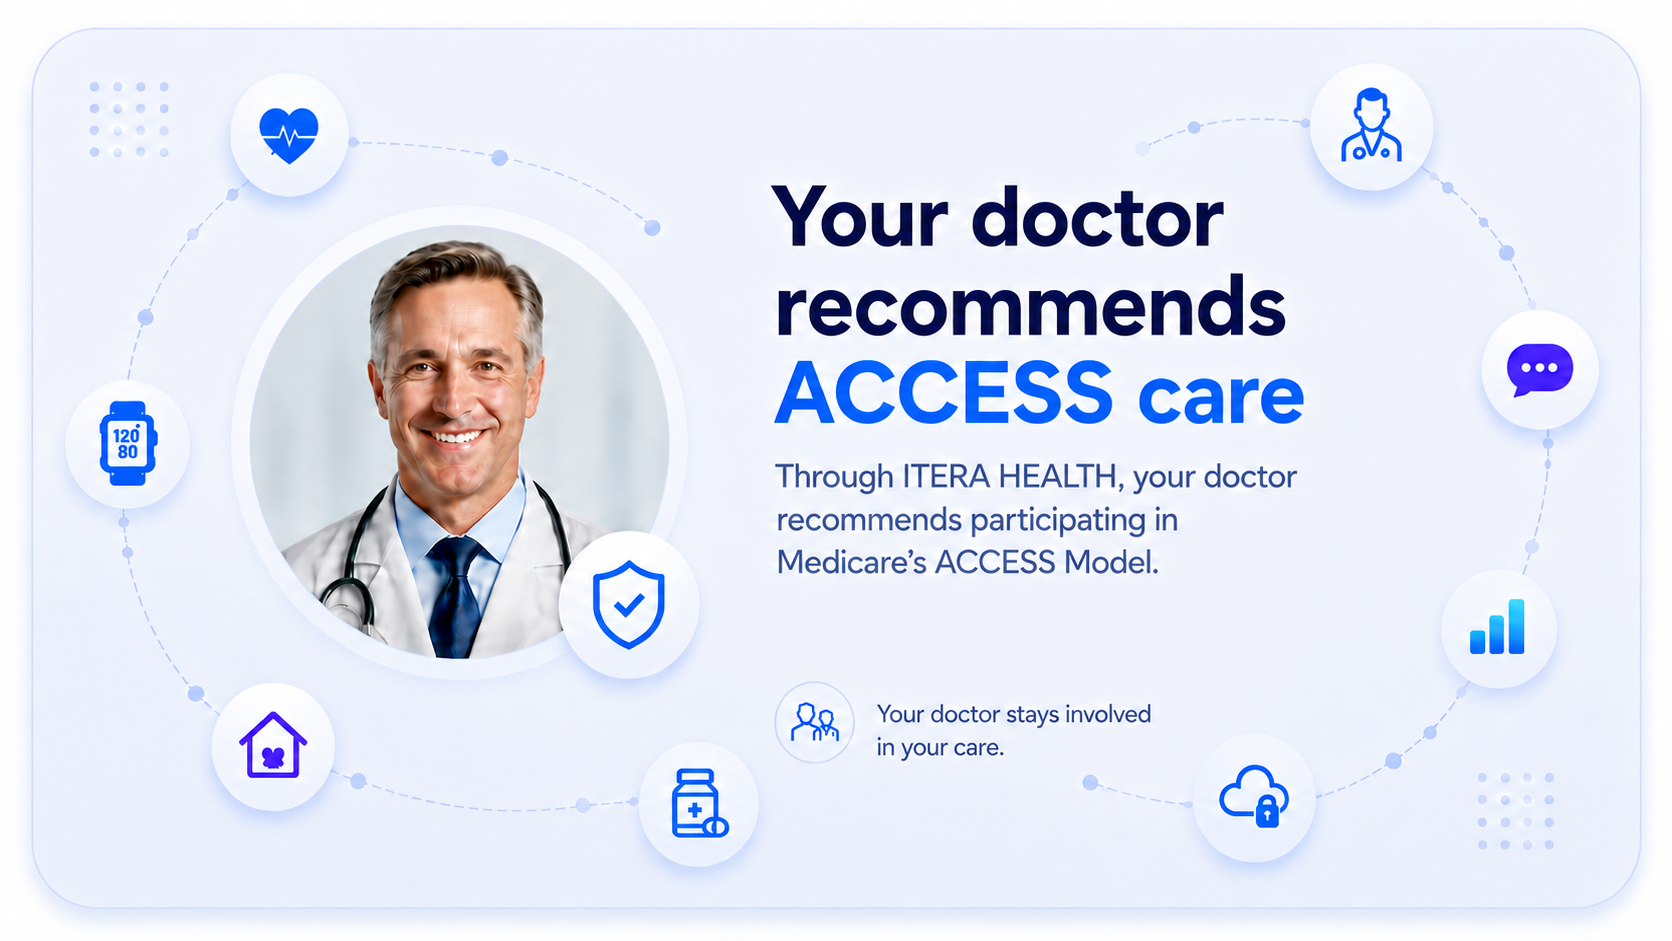
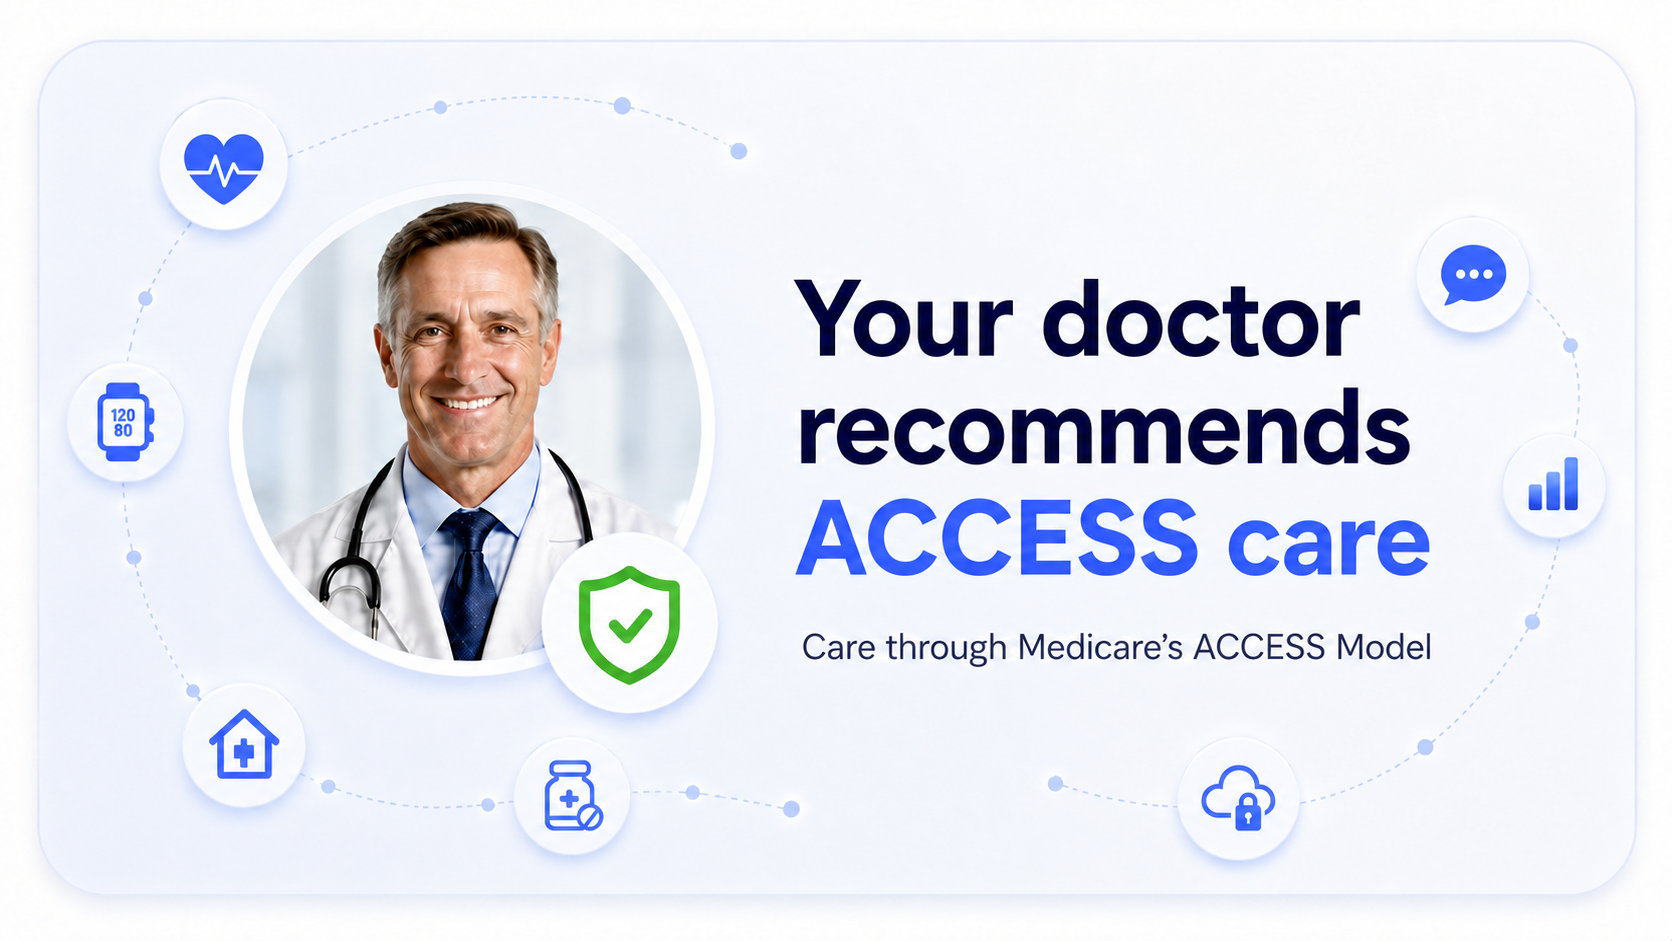
feat: refine enrollment cards and floating assistant

diff --git a/src/styles.css b/src/styles.css
@@ -237,13 +237,13 @@ p { margin:0; }
 .shell:has(.error-card) .floating-help,
 .shell:has(.faq) .floating-help,
 .shell:has(.text-button) .floating-help { display:none; }
-.emmi-assistant { position:fixed;z-index:10;right:max(10px,calc((100vw - 440px)/2 + 10px));bottom:calc(76px + env(safe-area-inset-bottom));display:grid;place-items:center;width:66px;height:66px;padding:4px;border:1px solid var(--primary-100);border-radius:50%;color:var(--text-primary);background:var(--surface-primary);box-shadow:0 12px 28px rgba(0,78,137,.16);cursor:grab;touch-action:none;user-select:none; }
-.emmi-assistant:hover { border-color:var(--primary-400);transform:translateY(-1px); }
-.emmi-assistant.dragging { cursor:grabbing;transform:none;box-shadow:0 15px 32px rgba(0,78,137,.2); }
+.emmi-assistant { position:fixed;z-index:10;right:max(10px,calc((100vw - 440px)/2 + 10px));bottom:calc(76px + env(safe-area-inset-bottom));display:grid;place-items:center;width:66px;height:66px;padding:0;border:0;border-radius:0;color:var(--text-primary);background:transparent;box-shadow:none;cursor:grab;touch-action:none;user-select:none; }
+.emmi-assistant:hover { transform:translateY(-1px); }
+.emmi-assistant.dragging { cursor:grabbing;transform:none;box-shadow:none; }
 .emmi-assistant:focus-visible { outline:3px solid var(--primary-600);outline-offset:3px; }
 .emmi-assistant:disabled { cursor:default;opacity:1; }
-.emmi-avatar { display:grid;place-items:center;width:56px;height:56px;overflow:hidden;border-radius:50%;background:var(--primary-50); }
-.emmi-avatar img { display:block;width:60px;height:60px;object-fit:contain;object-position:center;transform:translateY(-2px); }
+.emmi-avatar { display:grid;place-items:center;width:64px;height:64px;overflow:visible;border-radius:0;background:transparent; }
+.emmi-avatar img { display:block;width:64px;height:64px;object-fit:contain;object-position:center;filter:drop-shadow(0 8px 10px rgba(0,78,137,.18)); }
 .emmi-assistant img { pointer-events:none;user-select:none; }
 .emmi-disclaimer { display:flex;gap:9px;align-items:flex-start;margin-top:14px;padding:11px;border:1px solid var(--primary-100);border-radius:10px;color:var(--text-secondary);background:var(--surface-secondary);font-size:.78rem;line-height:1.42; }
 .emmi-disclaimer .icon { width:24px;height:24px;background:var(--primary-50); }
@@ -349,17 +349,16 @@ p { margin:0; }
   background:transparent;
   box-shadow:none;
 }
-.stage-brand-row { position:absolute;z-index:6;inset:0 0 auto;display:flex;justify-content:space-between;align-items:center;min-height:44px;padding:4px 18px;background:transparent;pointer-events:none; }
-.stage-brand { justify-self:auto;color:var(--text-placeholder);font-size:.78rem;pointer-events:auto; }
-.stage-language { justify-self:auto;width:auto;padding:0;color:var(--text-primary);pointer-events:auto; }
+.stage-brand-row { position:absolute;z-index:6;inset:0 0 auto;display:flex;justify-content:flex-end;align-items:flex-start;min-height:0;padding:4px 7px 0;background:transparent;pointer-events:none; }
+.stage-language { justify-self:auto;width:auto;min-width:0;min-height:32px;height:32px;padding:0 11px;color:var(--surface-primary);border:1px solid var(--warning);border-radius:999px;background:var(--warning);box-shadow:0 2px 8px rgba(255,70,1,.18);pointer-events:auto; }
 .trust-hero-media { position:absolute;inset:0;overflow:hidden;background:var(--surface-primary); }
 .trust-hero-image { position:absolute;inset:0;display:block;width:100%;height:100%;object-fit:cover;object-position:center; }
 .trust-hero-overlay { position:absolute;z-index:2;margin:0;color:var(--text-primary);font-size:clamp(.58rem,2.55vw,.69rem);font-weight:600;line-height:1.25;text-align:left;max-height:2.5em;overflow:hidden; }
 .trust-hero-overlay strong { color:var(--primary-600);font-weight:700; }
 .trust-hero-overlay.long { font-size:clamp(.45rem,1.85vw,.56rem);line-height:1.15;letter-spacing:-.012em; }
-.trust-hero-card[data-hero-variant="DOCTOR_RECOMMENDS_ACCESS"] .trust-hero-overlay { top:63.5%;left:46.2%;width:43%; }
+.trust-hero-card[data-hero-variant="DOCTOR_RECOMMENDS_ACCESS"] .trust-hero-overlay { top:74.5%;left:47.8%;width:42%; }
 .trust-hero-card[data-hero-variant="PHYSICIAN_SUPERVISING"] .trust-hero-overlay { top:53%;left:47.5%;width:42%; }
-.trust-hero-card[data-hero-variant="DOCTOR_RECOMMENDS_ACCESS"] .trust-hero-overlay.long { top:63%;width:47%; }
+.trust-hero-card[data-hero-variant="DOCTOR_RECOMMENDS_ACCESS"] .trust-hero-overlay.long { top:73.5%;width:47%; }
 .trust-hero-card[data-hero-variant="PHYSICIAN_SUPERVISING"] .trust-hero-overlay.long { top:52.5%;width:47%; }
 .generic-trust-hero { display:grid;place-content:center;justify-items:center;height:100%;padding:22px;text-align:center;background:var(--surface-secondary); }
 .generic-trust-hero>.icon { width:64px;height:64px;margin-bottom:12px;border-radius:20px; }
@@ -568,6 +567,6 @@ p { margin:0; }
   .scenario-summary strong { white-space:normal; }
   .launch-button { width:100%; }
 }
-@media (max-width:374px) { body { font-size:17px; }.screen { padding-left:18px;padding-right:18px; }.invitation-hero { margin-left:-18px;margin-right:-18px; }h1 { font-size:1.72rem; }.button { min-height:52px; }.art { height:118px; }.art-orbit { width:104px;height:104px; }.art-icon { width:65px;height:65px; }.screen:has(.invitation-stage){padding-left:18px;padding-right:18px}.stage-brand-row{padding-left:16px;padding-right:13px}.invitation-benefits{padding-left:13px;padding-right:13px} }
+@media (max-width:374px) { body { font-size:17px; }.screen { padding-left:18px;padding-right:18px; }.invitation-hero { margin-left:-18px;margin-right:-18px; }h1 { font-size:1.72rem; }.button { min-height:52px; }.art { height:118px; }.art-orbit { width:104px;height:104px; }.art-icon { width:65px;height:65px; }.screen:has(.invitation-stage){padding-left:18px;padding-right:18px}.stage-brand-row{padding-right:7px}.invitation-benefits{padding-left:13px;padding-right:13px} }
 @media (prefers-reduced-motion:reduce) { *,*::before,*::after { scroll-behavior:auto!important;animation-duration:.01ms!important;animation-iteration-count:1!important;transition-duration:.01ms!important; } }
 @media (forced-colors:active) { .button.primary,.check-row input:checked+.check-box { border:2px solid ButtonText; }.progress span { background:Highlight; } }

diff --git a/e2e/enrollment.spec.js b/e2e/enrollment.spec.js
@@ -42,6 +42,27 @@ test("direct outreach launches without an individual physician claim", async ({ 
   await expect(page.getByText("ITERA HEALTH invites you to learn about additional support available through Medicare.")).toBeVisible();
 });
 
+test("trust hero cards omit the ITERA logo and keep language near the top edge", async ({ page }) => {
+  await page.goto("/");
+  await page.getByRole("button", { name: /Launch Patient Experience/ }).click();
+  const hero = page.locator(".trust-hero-card");
+  await expect(hero).toBeVisible();
+  await expect(hero.locator(".stage-language")).toBeVisible();
+  await expect(hero.locator(".stage-brand")).toHaveCount(0);
+  await expect(hero.getByRole("link", { name: /ITERA HEALTH home/ })).toHaveCount(0);
+  const offset = await page.evaluate(() => {
+    const card = document.querySelector(".trust-hero-card").getBoundingClientRect();
+    const language = document.querySelector(".stage-language").getBoundingClientRect();
+    const style = getComputedStyle(document.querySelector(".stage-language"));
+    return { top: language.top - card.top, height: language.height, background: style.backgroundColor, color: style.color, iconCount: document.querySelectorAll(".stage-language .icon").length };
+  });
+  expect(offset.top).toBeLessThanOrEqual(10);
+  expect(offset.height).toBeLessThanOrEqual(34);
+  expect(offset.background).toBe("rgb(255, 70, 1)");
+  expect(offset.color).toBe("rgb(255, 255, 255)");
+  expect(offset.iconCount).toBe(0);
+});
+
 test("ACCESS physician referral uses doctor recommendation with dynamic physician", async ({ page }) => {
   await page.goto("/");
   await page.getByRole("combobox", { name: /Enrollment source/ }).selectOption({ label: "Physician Referral" });
@@ -49,6 +70,15 @@ test("ACCESS physician referral uses doctor recommendation with dynamic physicia
   await expect(page.locator(".trust-hero-card")).toHaveAttribute("data-hero-variant", "DOCTOR_RECOMMENDS_ACCESS");
   await expect(page.getByAltText("Your doctor recommends ACCESS care with ITERA HEALTH")).toBeVisible();
   await expect(page.locator(".trust-hero-overlay")).toHaveText("Recommended by Dr. Fresner");
+  const doctorLayout = await page.locator(".trust-hero-card").evaluate(card => {
+    const hero = card.getBoundingClientRect();
+    const language = card.querySelector(".stage-language").getBoundingClientRect();
+    const overlay = card.querySelector(".trust-hero-overlay").getBoundingClientRect();
+    return { languageRight: hero.right - language.right, overlayLeftRatio: (overlay.left - hero.left) / hero.width };
+  });
+  expect(doctorLayout.languageRight).toBeLessThanOrEqual(10);
+  expect(doctorLayout.overlayLeftRatio).toBeGreaterThanOrEqual(0.475);
+  expect(doctorLayout.overlayLeftRatio).toBeLessThanOrEqual(0.481);
 });
 
 test("traditional physician pathway uses supervising care card", async ({ page }) => {
@@ -59,6 +89,23 @@ test("traditional physician pathway uses supervising care card", async ({ page }
   await expect(page.locator(".trust-hero-card")).toHaveAttribute("data-hero-variant", "PHYSICIAN_SUPERVISING");
   await expect(page.getByAltText("Care coordinated with your physician and care team")).toBeVisible();
   await expect(page.locator(".trust-hero-overlay")).toHaveText("Coordinated with Dr. Fresner");
+  const languageRight = await page.locator(".trust-hero-card").evaluate(card => {
+    const hero = card.getBoundingClientRect();
+    const language = card.querySelector(".stage-language").getBoundingClientRect();
+    return hero.right - language.right;
+  });
+  expect(languageRight).toBeLessThanOrEqual(10);
+});
+
+test("every CCM RPM and PCM pathway uses the physician supervising card", async ({ page }) => {
+  for (const program of ["CCM", "RPM", "CCM + RPM", "PCM", "PCM + RPM"]) {
+    await page.goto("/");
+    await page.getByRole("radio", { name: program, exact: true }).check({ force: true });
+    await page.getByRole("button", { name: /Launch Patient Experience/ }).click();
+    await expect(page.locator(".trust-hero-card")).toHaveAttribute("data-hero-variant", "PHYSICIAN_SUPERVISING");
+    await expect(page.getByAltText("Care coordinated with your physician and care team")).toBeVisible();
+    await expect(page.locator(".generic-trust-hero")).toHaveCount(0);
+  }
 });
 
 test("trust hero cards use one compact premium image surface", async ({ page }) => {
@@ -66,6 +113,11 @@ test("trust hero cards use one compact premium image surface", async ({ page }) 
   const audits = [];
   const audit = async () => {
     await expect(page.locator(".trust-hero-card")).toBeVisible();
+    await expect(page.locator(".trust-hero-image")).toBeVisible();
+    await page.waitForFunction(() => {
+      const image = document.querySelector(".trust-hero-image");
+      return image?.complete && image.naturalWidth > 0;
+    });
     return page.evaluate(() => {
     const card = document.querySelector(".trust-hero-card");
     const media = document.querySelector(".trust-hero-media");
@@ -184,6 +236,24 @@ test("Emmi remains available throughout the patient experience", async ({ page }
   const emmi = page.getByRole("button", { name: "Ask Emmi, AI assistant" });
   await expect(emmi).toBeVisible();
   await expect(emmi.locator("img")).toHaveAttribute("src", "/assets/emmi-assistant.png");
+  const emmiSurface = await emmi.evaluate(button => {
+    const buttonStyle = getComputedStyle(button);
+    const avatarStyle = getComputedStyle(button.querySelector(".emmi-avatar"));
+    return {
+      buttonBackground: buttonStyle.backgroundColor,
+      buttonBorder: buttonStyle.borderTopWidth,
+      buttonRadius: buttonStyle.borderRadius,
+      avatarBackground: avatarStyle.backgroundColor,
+      avatarRadius: avatarStyle.borderRadius
+    };
+  });
+  expect(emmiSurface).toEqual({
+    buttonBackground: "rgba(0, 0, 0, 0)",
+    buttonBorder: "0px",
+    buttonRadius: "0px",
+    avatarBackground: "rgba(0, 0, 0, 0)",
+    avatarRadius: "0px"
+  });
   const initial = await emmi.boundingBox();
   await page.mouse.move(initial.x + initial.width / 2, initial.y + initial.height / 2);
   await page.mouse.down();

diff --git a/src/app.js b/src/app.js
@@ -105,7 +105,7 @@ function resolveTrustHero(offer) {
   const physicianName = offer.physician?.displayName || "";
   if (access && source === "ITERA Direct Outreach") return { variant: "ACCESS_PARTICIPANT", src: "/images/enrollment/card-access-participant-hero.png", alt: "ITERA HEALTH connected Medicare ACCESS care" };
   if (access && source === "Physician Referral" && physicianName) return { variant: "DOCTOR_RECOMMENDS_ACCESS", src: "/images/enrollment/card-doctor-recommends-hero.png", alt: "Your doctor recommends ACCESS care with ITERA HEALTH", overlayLabel: L("Recommended by", "Recomendado por", "Rekòmande pa"), physicianName };
-  if (!access && physicianName) return { variant: "PHYSICIAN_SUPERVISING", src: "/images/enrollment/card-physician-supervising-hero.png", alt: "Care coordinated with your physician and care team", overlayLabel: L("Coordinated with", "Coordinado con", "Kowòdone avèk"), physicianName };
+  if (!access) return { variant: "PHYSICIAN_SUPERVISING", src: "/images/enrollment/card-physician-supervising-hero.png", alt: "Care coordinated with your physician and care team", overlayLabel: L("Coordinated with", "Coordinado con", "Kowòdone avèk"), physicianName };
   return { variant: "GENERIC_ITERA_CARE", alt: "ITERA HEALTH connected care support" };
 }
 
@@ -116,7 +116,7 @@ function TrustHeroCard() {
     ? `<img class="trust-hero-image" src="${hero.src}" alt="${hero.alt}">${overlayText ? `<p class="trust-hero-overlay ${overlayText.length > 34 ? "long" : ""}"><span>${hero.overlayLabel}</span> <strong>${hero.physicianName}</strong></p>` : ""}`
     : `<div class="generic-trust-hero">${icon("shield")}<strong>${L("Connected care with ITERA HEALTH", "Cuidado conectado con ITERA HEALTH", "Swen konekte avèk ITERA HEALTH")}</strong><small>${L("Support designed around your health needs", "Apoyo diseñado según sus necesidades de salud", "Sipò ki fèt selon bezwen sante ou")}</small></div>`;
   return `<section class="invitation-stage trust-hero-card" data-trust-source="${state.offer.enrollmentSource}" data-hero-variant="${hero.variant}">
-    <div class="stage-brand-row"><a class="brand stage-brand" href="#" data-action="restart" aria-label="ITERA HEALTH home"><b>ITERA.</b>HEALTH</a><button class="language stage-language" data-action="language" aria-label="${languageActionLabel()}">${icon("language")} ${languageCode()}</button></div>
+    <div class="stage-brand-row"><button class="language stage-language" data-action="language" aria-label="${languageActionLabel()}">${languageCode()}</button></div>
     <div class="trust-hero-media">${media}</div>
   </section>`;
 }
